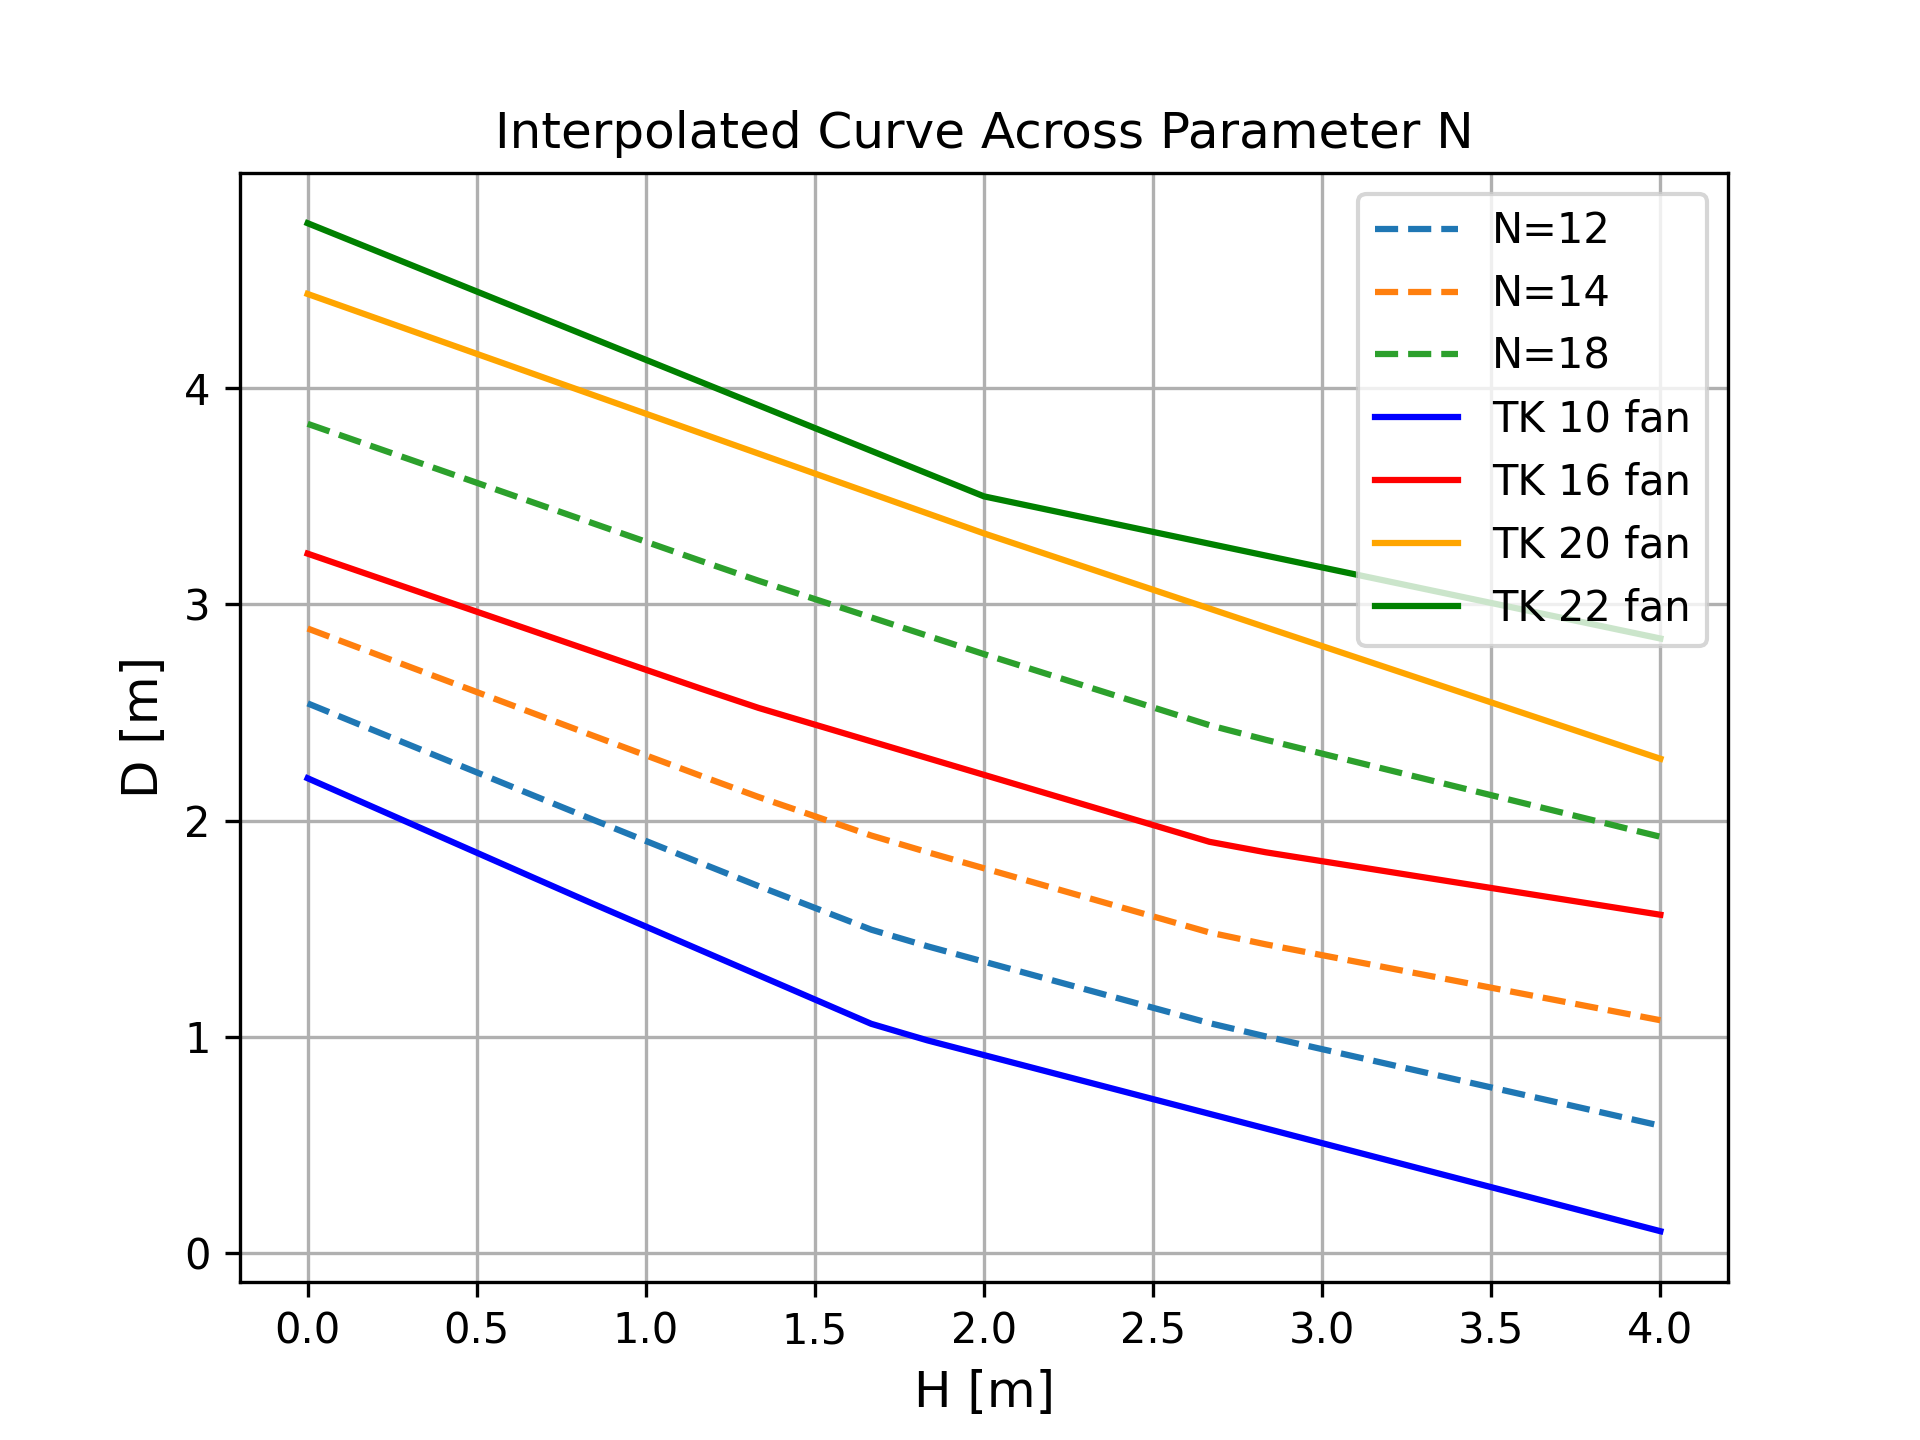
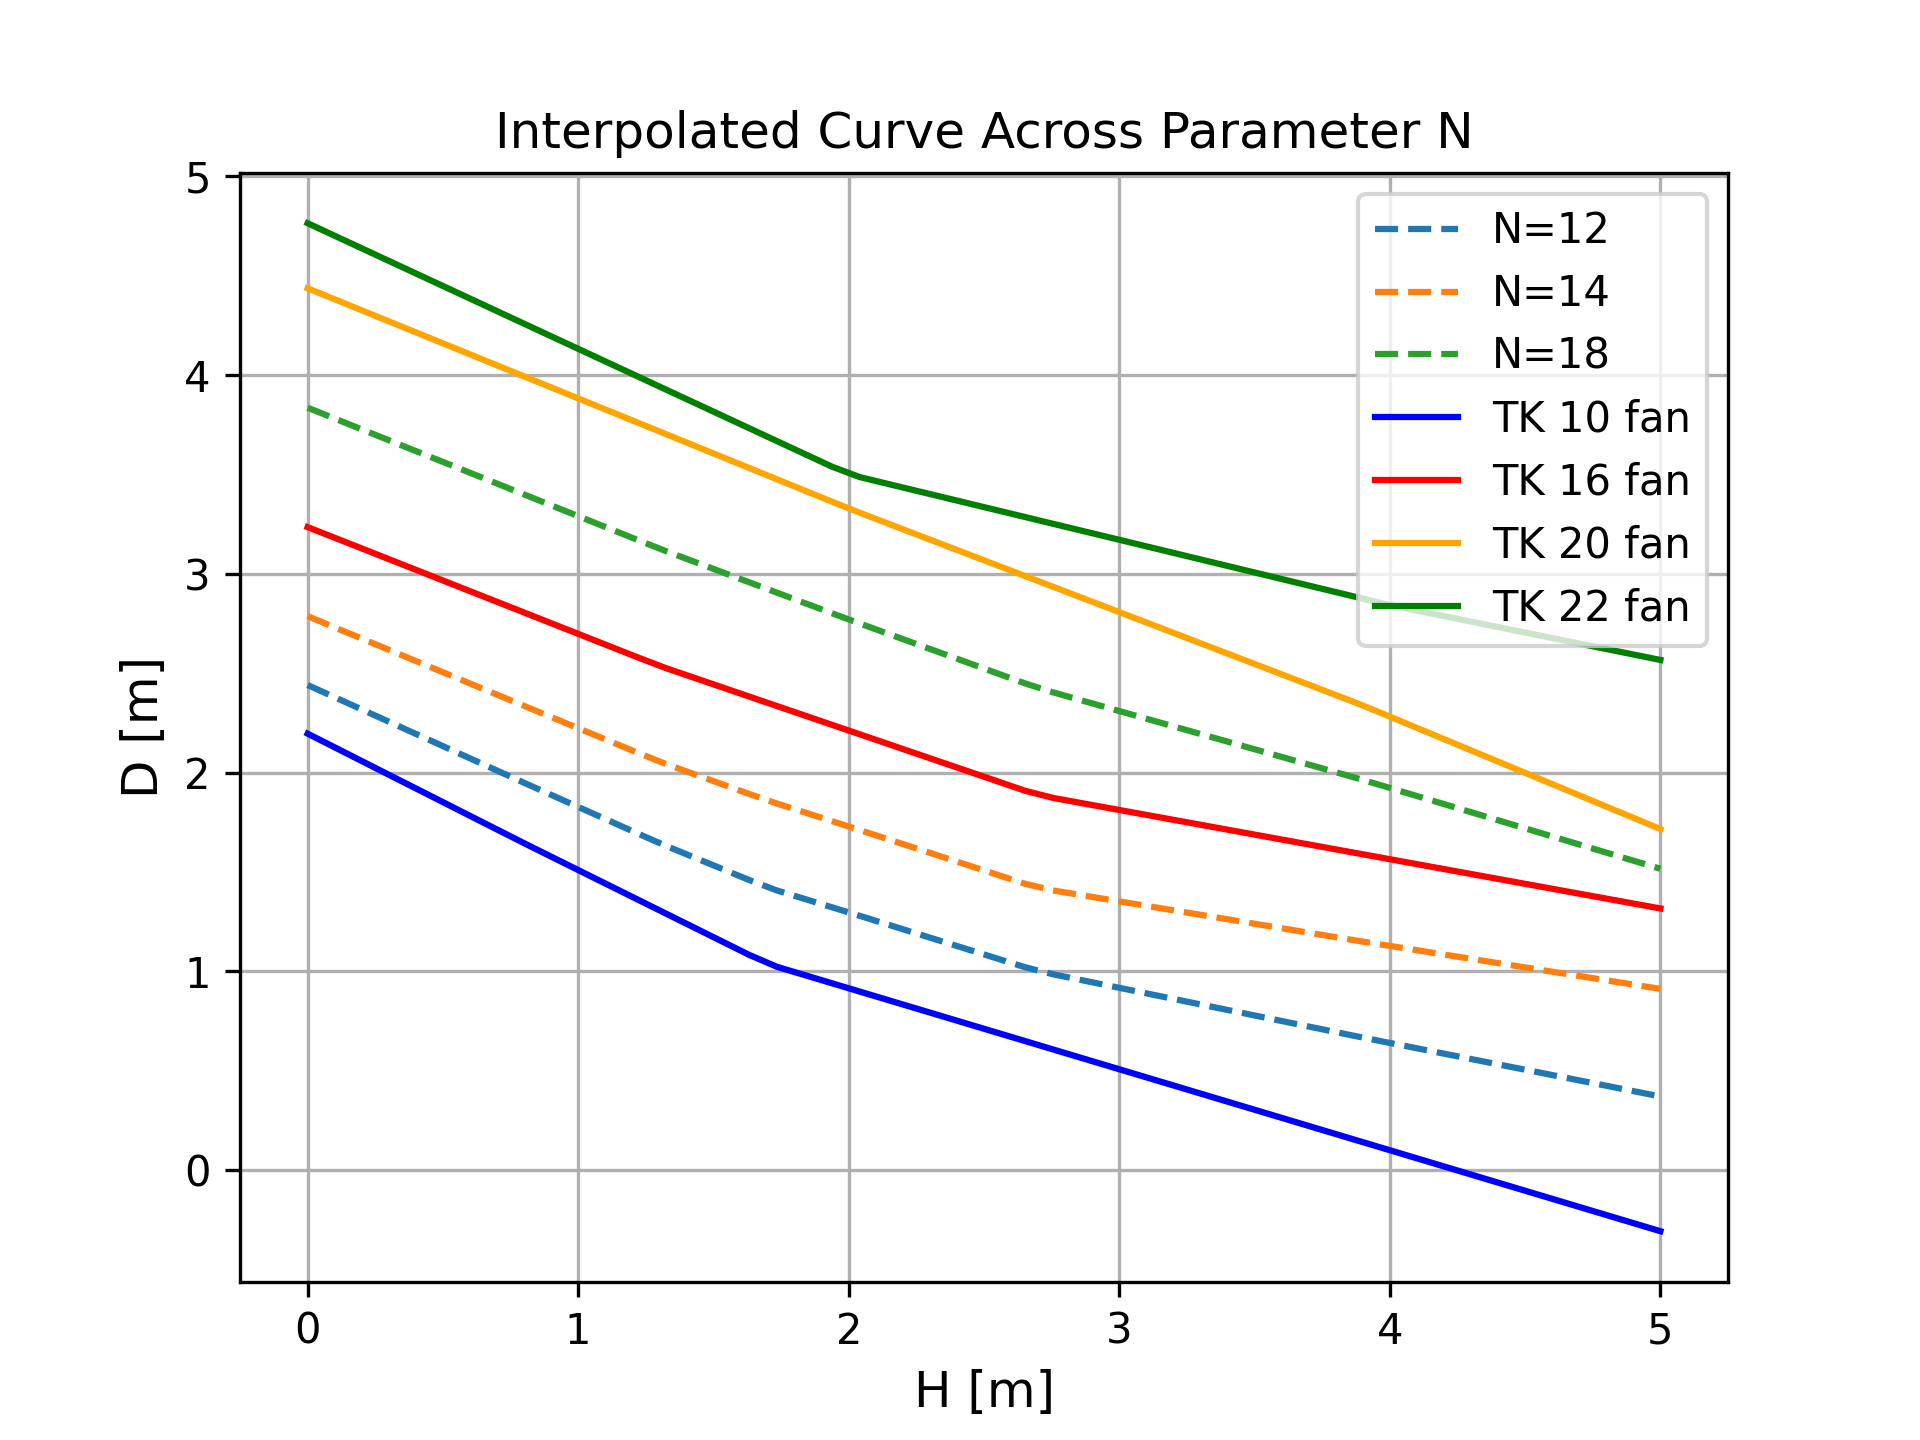
updating things

diff --git a/fittingCurves.py b/fittingCurves.py
@@ -366,7 +366,7 @@ plt.savefig('DR3.png',format='png', dpi=300)
 plt.show()
 
 #interpolat on N fan
-x_common = np.linspace(0.00001, 4, num=25)
+x_common = np.linspace(0.00001, 5, num=50)
 print("x_common",x_common)
 interp1 = interp1d(data10all[:,2], data10all[:,1], kind='linear', bounds_error=False, fill_value='extrapolate')
 interp2 = interp1d(data16all[:,2], data16all[:,1], kind='linear', bounds_error=False, fill_value='extrapolate')
@@ -382,11 +382,28 @@ def interpolate_across_N(y1, y2, N1, N2, N_target):
     w = (N_target - N1) / (N2 - N1)
     return (1 - w) * y1 + w * y2
 
+def quadratic_interpolate(N0, y0, N1, y1, N2, y2, N_target):
+    L0 = ((N_target - N1)*(N_target - N2)) / ((N0 - N1)*(N0 - N2))
+    L1 = ((N_target - N0)*(N_target - N2)) / ((N1 - N0)*(N1 - N2))
+    L2 = ((N_target - N0)*(N_target - N1)) / ((N2 - N0)*(N2 - N1))
+    return y0 * L0 + y1 * L1 + y2 * L2
+
+
 fansi=[12,14,18,20]
-y_12 = interpolate_across_N(y_10, y_16, 10, 16, 12)
-y_14 = interpolate_across_N(y_10, y_16, 10, 16, 14)
-y_18 = interpolate_across_N(y_16, y_20, 16, 20, 18)
-#y_22 = interpolate_across_N(y_16, y_20, 16, 20, 22)
+which_interp="quad"
+if which_interp=="linear":
+    y_12 = interpolate_across_N(y_10, y_16, 10, 16, 12)
+    y_14 = interpolate_across_N(y_10, y_16, 10, 16, 14)
+    y_18 = interpolate_across_N(y_16, y_20, 16, 20, 18)
+    #y_22 = interpolate_across_N(y_16, y_20, 16, 20, 22)
+elif which_interp=="quad":
+    y_12 = quadratic_interpolate(10, y_10, 16, y_16, 20, y_20, 12)
+    y_14 = quadratic_interpolate(10, y_10, 16, y_16, 20, y_20, 14)
+    y_18 = quadratic_interpolate(16, y_16, 20, y_20, 22, y_22, 18)
+    #y_22 = quadratic_interpolate(16, y_16, 20, y_20, 22, y_22, 22)
+y_18 = (y_16[:]+y_20[:])/2
+    
+
 plt.figure(5)
 
 plt.plot(x_common, y_12, label=f'N={12}', linestyle='--')
@@ -399,6 +416,9 @@ plt.plot(x_common, y_16,  "-",color="red", label="TK 16 fan")
 plt.plot(x_common, y_20, "-",color="orange", label="TK 20 fan")
 plt.plot(x_common, y_22, "-",color="green", label="TK 22 fan")
 
+m=[y_10,y_12,y_14,y_16,y_18,y_20,y_22]
+print("m",m)    
+
 plt.legend(loc="upper right")
 plt.legend
 plt.xlabel("H [m]",fontsize = 12)
@@ -408,3 +428,28 @@ plt.xticks(fontsize=10)
 plt.grid()
 plt.title("Interpolated Curve Across Parameter N")
 plt.savefig('interpolated_curves.png',format='png', dpi=300)
+
+plt.figure(6)
+fan=[10,12,14,16,18,20,22]
+dr3=[2.1959, y_12[0], y_14[0],3.235,y_18[0],y_20[0],4.7086]
+#print(dr3)  
+plt.plot(fan,dr3,"-*",color="blue")
+
+x_targets = [0,1,2,3,4,5]  # Replace with your actual target
+for x_target in x_targets:
+    print(f"Target: {x_target}")
+    # Find the index of the closest value in x_common
+    idx = np.argmin(np.abs(x_common - x_target))
+    # Extract corresponding y values
+    y_values = [y_10[idx], y_12[idx], y_14[idx], y_16[idx], y_18[idx], y_20[idx], y_22[idx]]
+    plt.plot(fan,y_values,"-*", label=f"H={x_target}m")
+
+plt.legend(loc="upper left")
+plt.title("Fan performance at different heights")
+
+plt.xlabel("D [m]",fontsize = 12)
+plt.ylabel("Fan ",fontsize = 12)
+plt.yticks(fontsize=10)
+plt.xticks(fontsize=10)
+plt.grid()
+plt.savefig('interp_Dr3.png',format='png', dpi=300)
